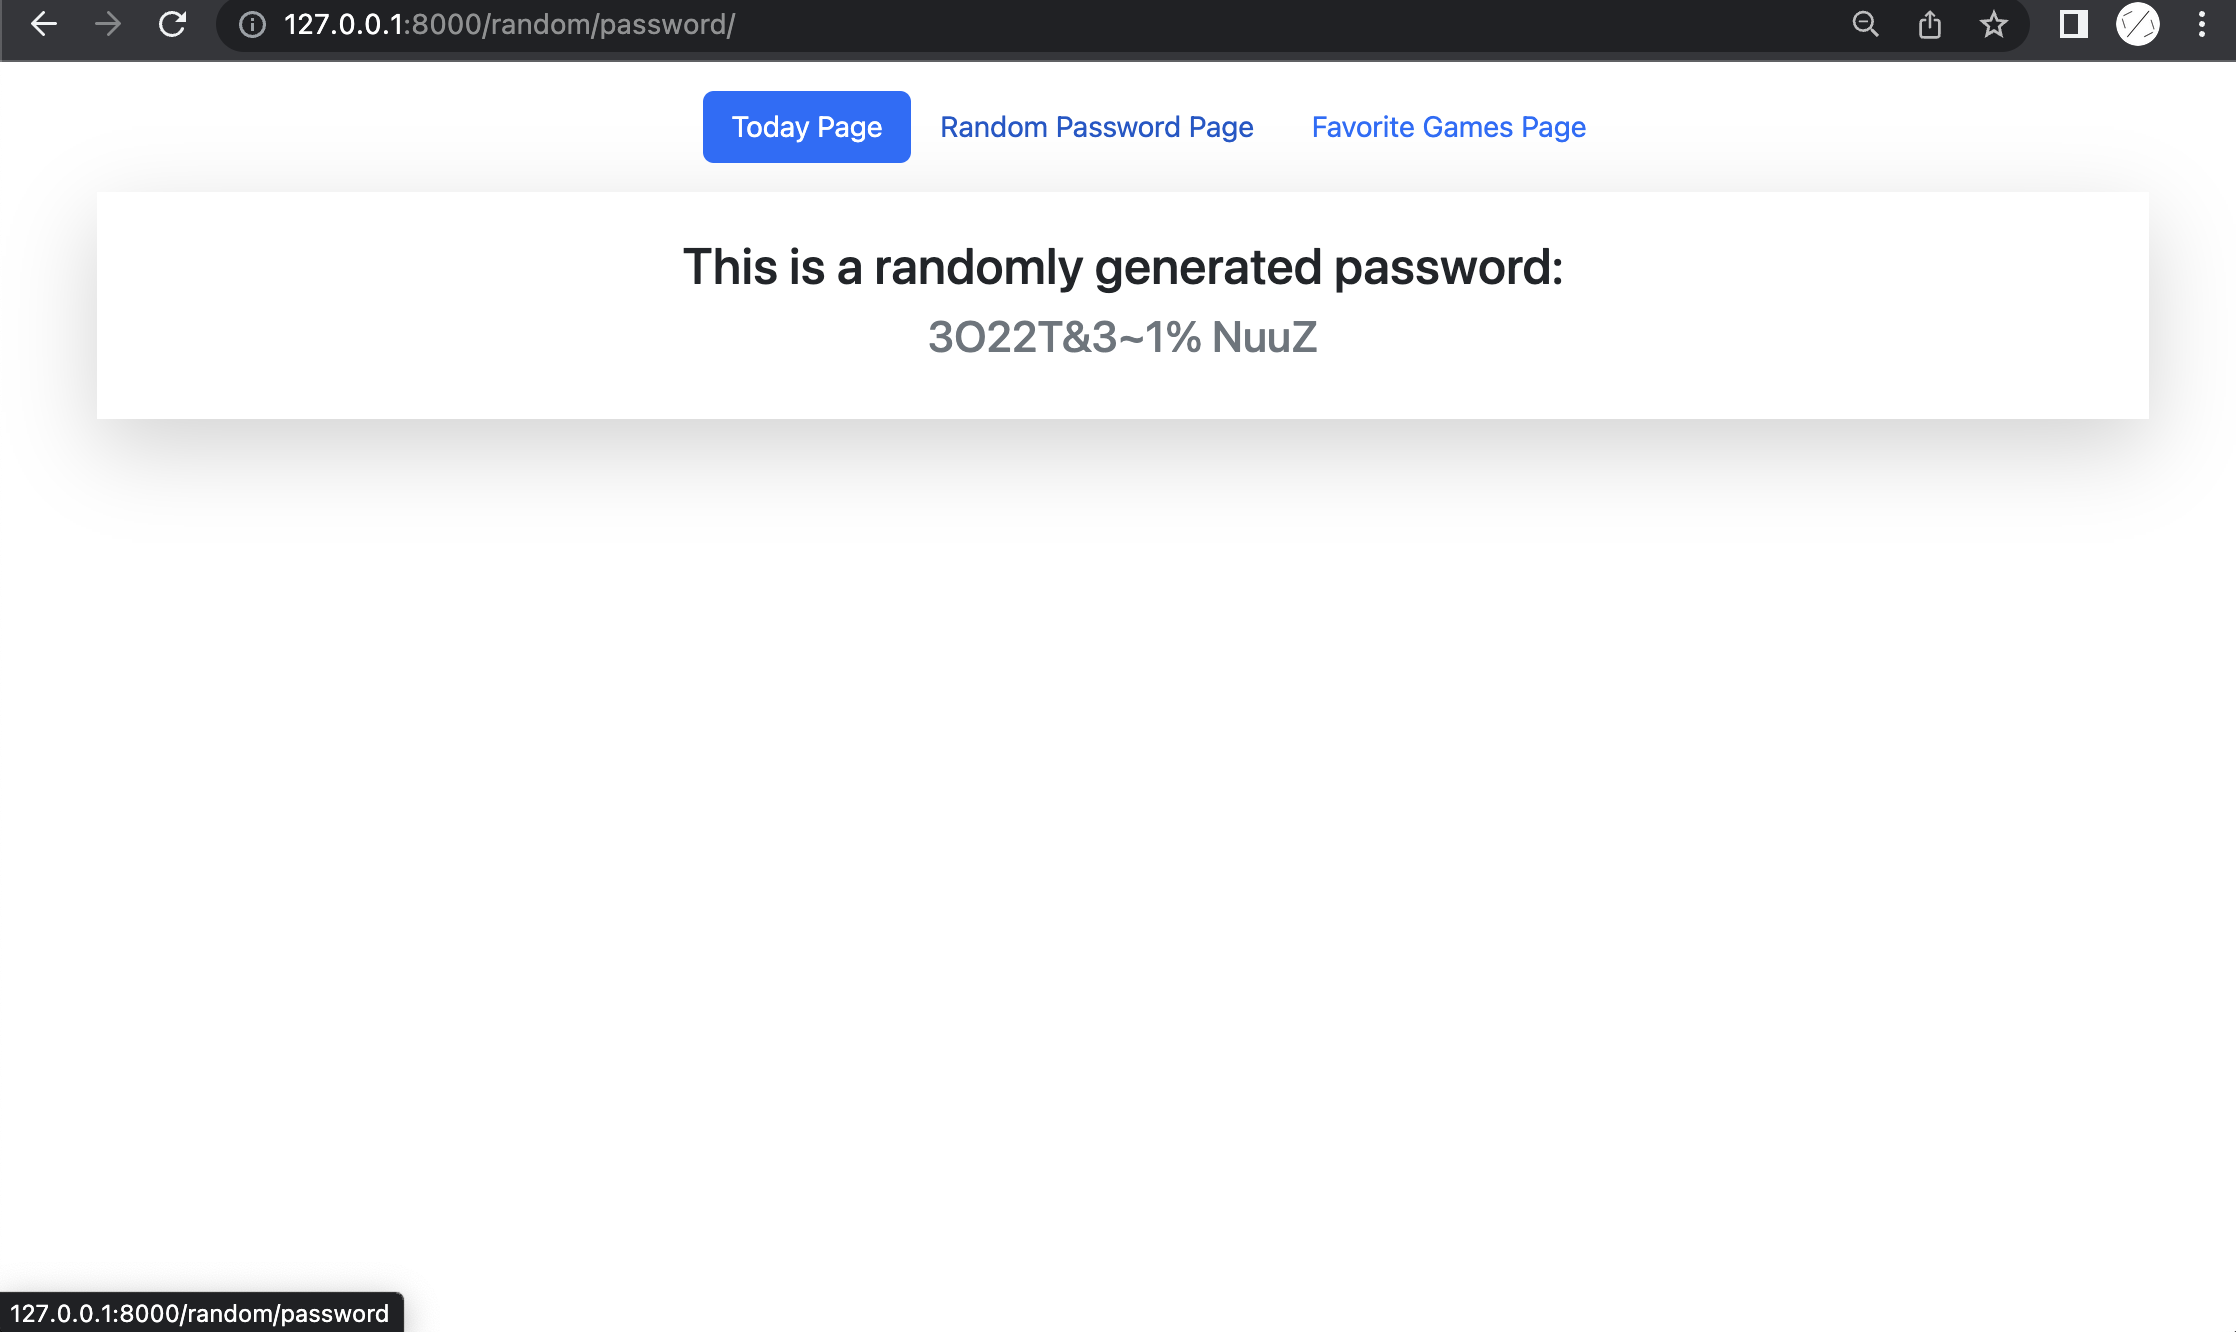
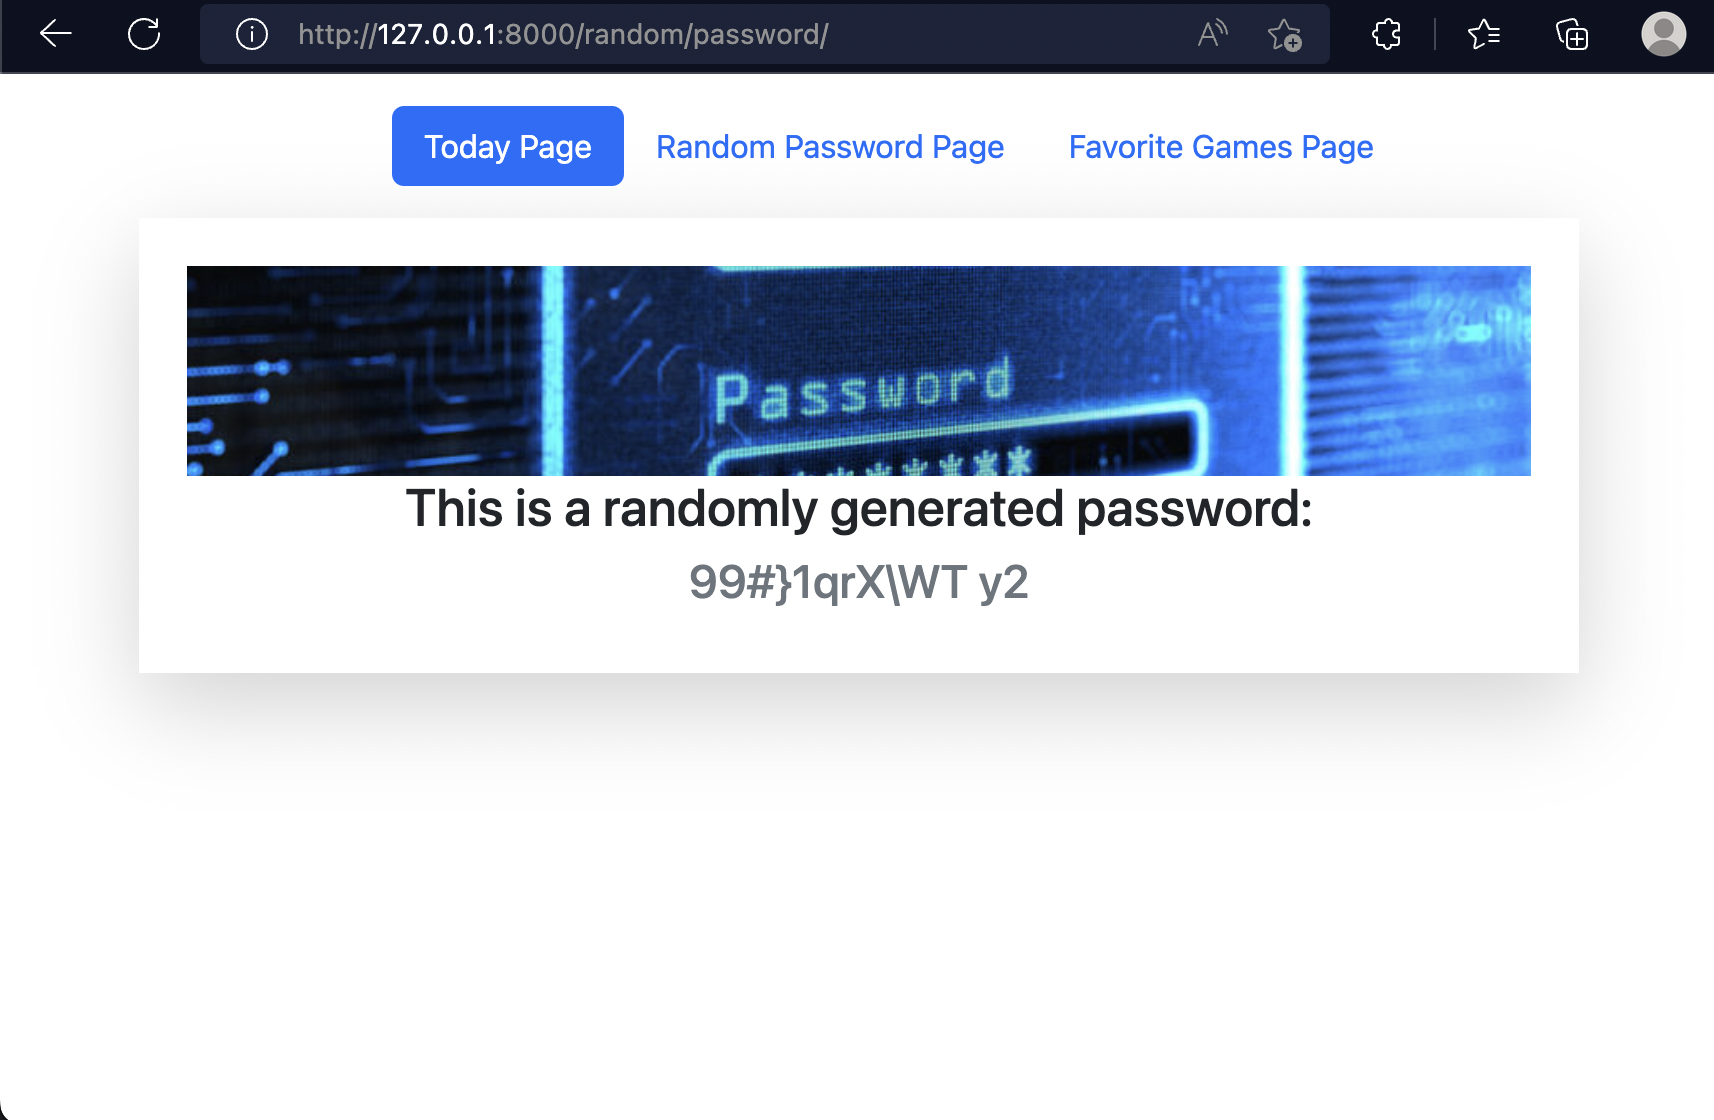
Updated LAB_DJANGO_TEMPLATE_INHERITANCE

Changed region(s): [[0.0, 0.0, 1.0, 0.5312], [0.0928, 0.5938, 0.8967, 0.625], [0.0, 0.9688, 0.1855, 1.0]]

diff --git a/TemplatesProject/AppTemplate/Templates/AppTemplate/favGames.html b/TemplatesProject/AppTemplate/Templates/AppTemplate/favGames.html
@@ -1,25 +1,31 @@
 <!DOCTYPE html>
 <html lang="en">
-    {% extends 'AppTemplate/base.html' %}
-    
+
+{% extends 'AppTemplate/base.html' %}
+{%load static%}
+
 <head>
-    
+
     <meta charset="UTF-8">
     <meta http-equiv="X-UA-Compatible" content="IE=edge">
     <meta name="viewport" content="width=device-width, initial-scale=1.0">
-    <link rel="stylesheet" href="https://cdn.jsdelivr.net/npm/bootstrap@5.2.0-beta1/dist/css/bootstrap.rtl.min.css" integrity="sha384-dc2NSrAXbAkjrdm9IYrX10fQq9SDG6Vjz7nQVKdKcJl3pC+k37e7qJR5MVSCS+wR" crossorigin="anonymous">
+    <link rel="stylesheet" href="https://cdn.jsdelivr.net/npm/bootstrap@5.2.0-beta1/dist/css/bootstrap.rtl.min.css"
+        integrity="sha384-dc2NSrAXbAkjrdm9IYrX10fQq9SDG6Vjz7nQVKdKcJl3pC+k37e7qJR5MVSCS+wR" crossorigin="anonymous">
     <title>{%block title%}Games Page! {%endblock%}</title>
 </head>
+
 <body id="wrapping">
     {%block content%}
     <div class="container shadow-lg p-4 ">
-    <h2>  My Favorite Games :) !</h2>
-    <ul>
-        {% for game in fav %}
+        <img src="{%static 'images/gaming.jpeg'%}" class="w-100" style="object-fit: cover; height: 20vh;" />
+        <h2> My Favorite Games :) !</h2>
+        <ul>
+            {% for game in fav %}
             <li>{{game}}</li>
-        {% endfor %}
-    </ul>
+            {% endfor %}
+        </ul>
     </div>
     {%endblock%}
 </body>
+
 </html>

diff --git a/TemplatesProject/AppTemplate/Templates/AppTemplate/base.html b/TemplatesProject/AppTemplate/Templates/AppTemplate/base.html
@@ -14,9 +14,9 @@
     <div class="container">
         <header class="d-flex justify-content-center py-3">
             <ul class="nav nav-pills">
-                <li class="nav-item"><a href="/today/" class="nav-link active" aria-current="page">Today Page</a></li>
-                <li class="nav-item"><a href="/random/password" class="nav-link">Random Password Page</a></li>
-                <li class="nav-item"><a href="/favs/games/" class="nav-link">Favorite Games Page</a></li>
+                <li class="nav-item"><a href="{% url 'AppTemplate:today'%}" class="nav-link active" aria-current="page">Today Page</a></li>
+                <li class="nav-item"><a href="{% url 'AppTemplate:password'%}" class="nav-link">Random Password Page</a></li>
+                <li class="nav-item"><a href="{% url 'AppTemplate:games'%}" class="nav-link">Favorite Games Page</a></li>
             </ul>
         </header>
     </div>

diff --git a/TemplatesProject/AppTemplate/Templates/AppTemplate/password.html b/TemplatesProject/AppTemplate/Templates/AppTemplate/password.html
@@ -1,6 +1,7 @@
 <!DOCTYPE html>
 <html lang="en">
-    {% extends 'AppTemplate/base.html' %}
+{% extends 'AppTemplate/base.html' %}
+{%load static%}
 
 <head>
     <meta charset="UTF-8">
@@ -9,14 +10,19 @@
 
     <title>{%block title%} Password Page :) {%endblock%}</title>
 </head>
-<body id="wrapping">
+
+<body>
+
     {%block content%}
     <div class="container shadow-lg p-4 text-center">
-    <h3 class="text-dark">This is a randomly generated password: </h3>
-    <h4 class="text-secondary">{{password}}</h4>
-    {%endblock%}
+        <img src="{%static 'images/pwd.jpeg'%}" class="w-100" style="object-fit: cover; height: 20vh;">
+        <h3 class="text-dark">This is a randomly generated password: </h3>
+        <h4 class="text-secondary">{{password}}</h4>
+        </img>
     </div>
+    {%endblock%}
 
-    
+
 </body>
+
 </html>

diff --git a/TemplatesProject/AppTemplate/urls.py b/TemplatesProject/AppTemplate/urls.py
@@ -1,7 +1,7 @@
 from django.urls import path     
 from . import views
 
-
+app_name = 'AppTemplate'
 urlpatterns = [
     path('today/', views.today, name="today"),
     path('random/password/', views.password, name="password"),
